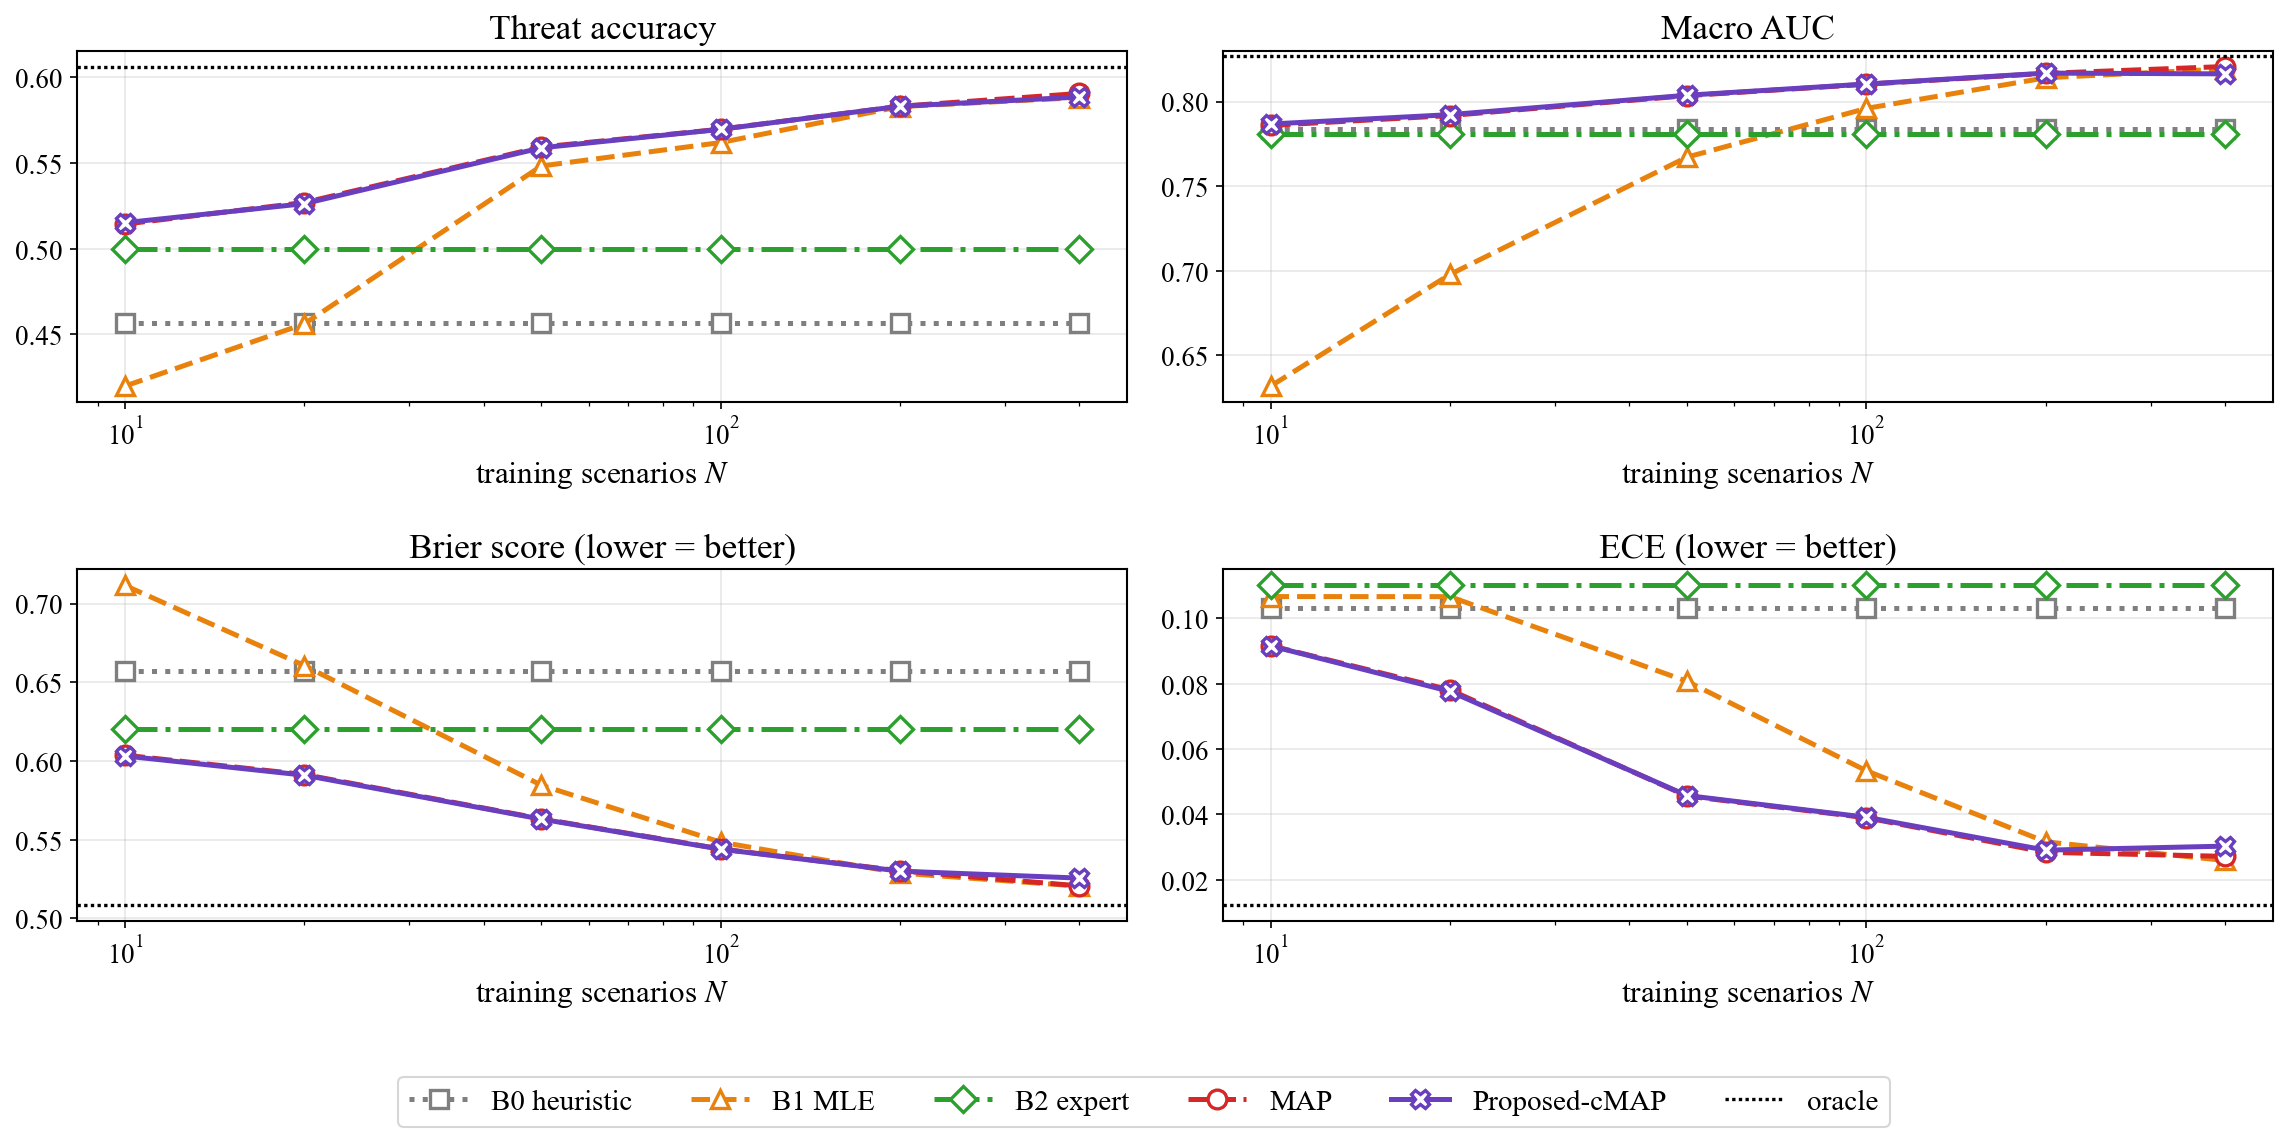
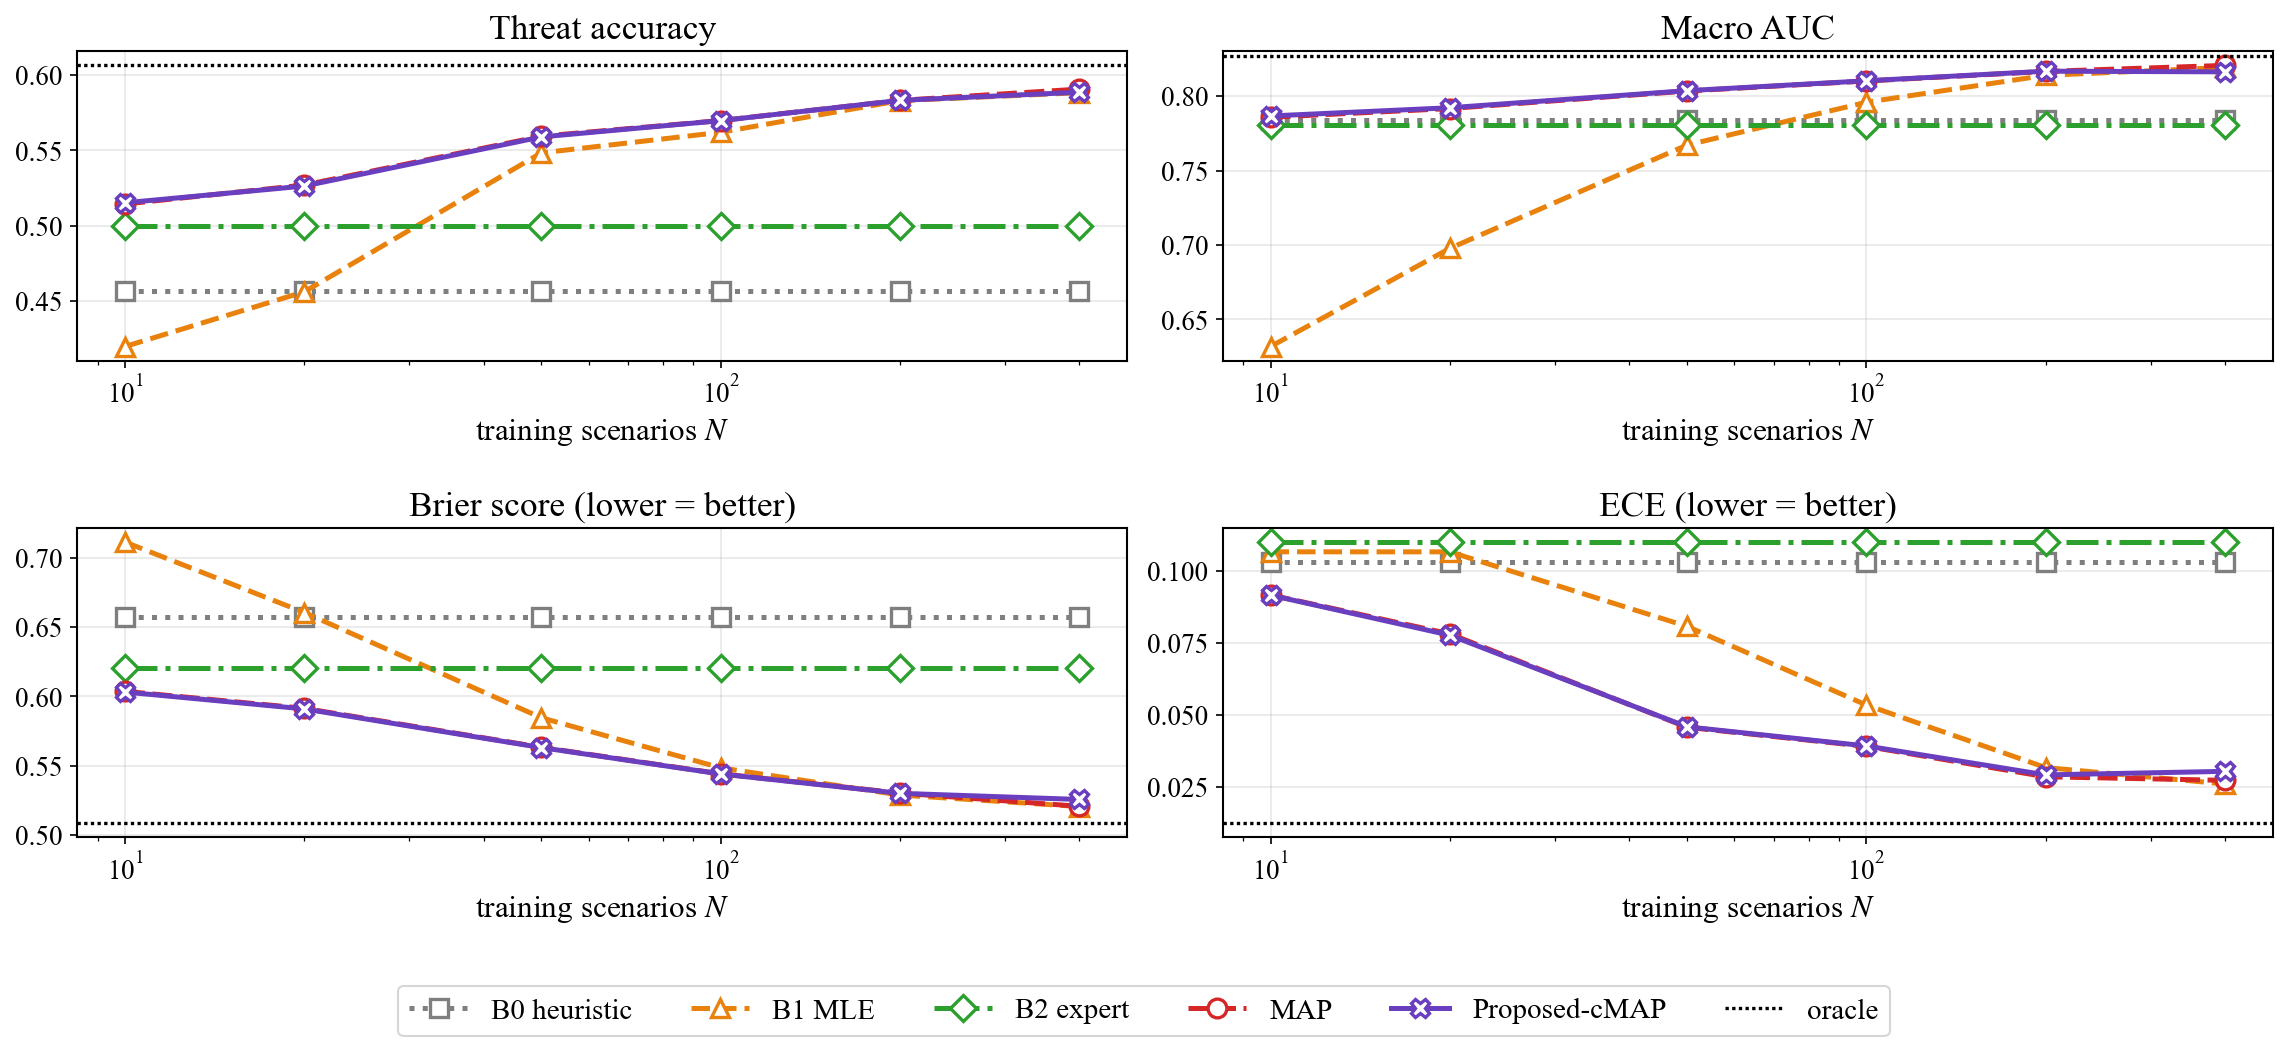
Regenerate scarcity figure with a slightly shorter aspect

diff --git a/replot_fig3.py b/replot_fig3.py
@@ -44,7 +44,7 @@ plt.rcParams.update({
     "lines.linewidth": 2.4, "lines.markersize": 9, "axes.linewidth": 1.0,
 })
 
-fig, axes = plt.subplots(2, 2, figsize=(15.5, 7.6))
+fig, axes = plt.subplots(2, 2, figsize=(15.5, 7.0))
 handles = None
 for ax, (key, title) in zip(axes.ravel(), PANELS):
     for mkey, label, color, ls, mk in STYLE:
